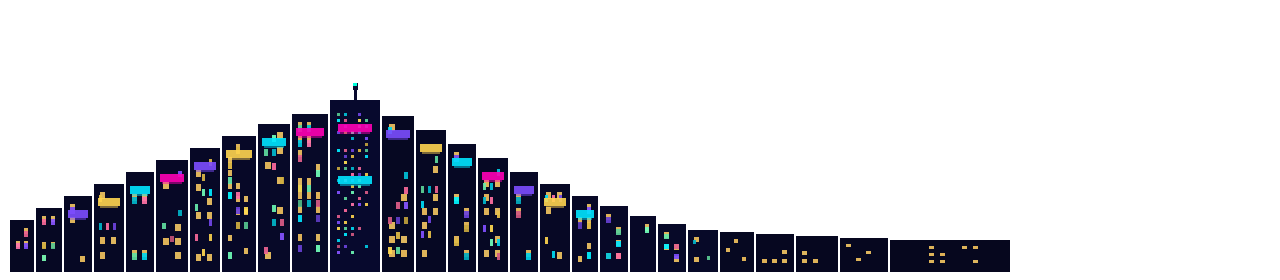
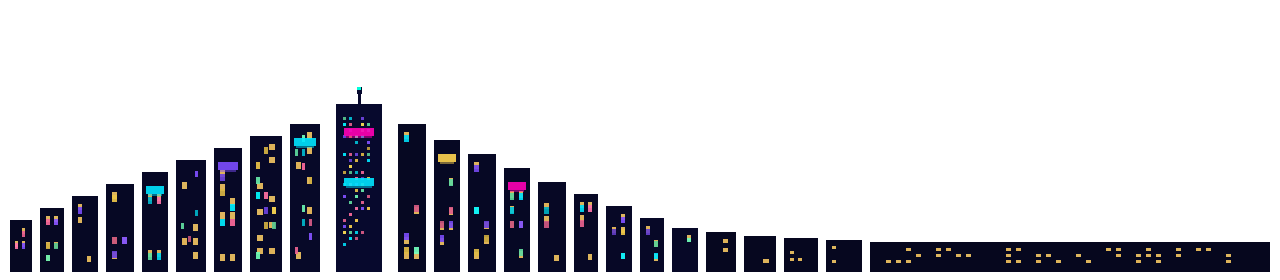
Deploy Stack Rush mobile PWA

Changed region(s): [[0.0, 0.3143, 1.0, 0.9714]]

diff --git a/index.html b/index.html
@@ -619,7 +619,7 @@
       <div class="section-divider"></div>
       <p class="theme-label">City skyline <span id="cityUnlockHint"></span></p>
       <div class="theme-grid" id="cityGrid"></div>
-      <p class="theme-label" id="buildVer" style="margin-top:10px;opacity:.35;font-size:.62rem;text-align:center;">Build 407e40c5</p>
+      <p class="theme-label" id="buildVer" style="margin-top:10px;opacity:.35;font-size:.62rem;text-align:center;">Build bc5035d8</p>
       <button class="secondary" id="optionsBackBtn" style="width:100%;margin-top:10px;">Back</button>
     </div>
   </div>
@@ -710,7 +710,7 @@ const MUSIC_TRACKS = [
 
 const SFX_FILES = ['drop', 'land', 'perfect', 'great', 'good', 'slice', 'gameover'];
 const ASSETS_BASE = 'assets/';
-const ASSETS_VER = '407e40c5';
+const ASSETS_VER = 'bc5035d8';
 const BOARD_KEY = 'stackrush_weekly_board';
 const PLAYER_NAME_KEY = 'stackrush_player_name';
 const BOARD_MAX = 15;
@@ -4090,7 +4090,7 @@ if ('serviceWorker' in navigator) {
     location.reload();
   });
   window.addEventListener('load', () => {
-    navigator.serviceWorker.register('./sw.js?v=407e40c5').then((reg) => {
+    navigator.serviceWorker.register('./sw.js?v=bc5035d8').then((reg) => {
       reg.update();
       if (reg.waiting) reg.waiting.postMessage({ type: 'SKIP_WAITING' });
       reg.addEventListener('updatefound', () => {

diff --git a/sw.js b/sw.js
@@ -1,5 +1,5 @@
 /* Stack Rush service worker — generated by build_mobile.py */
-const CACHE = 'stackrush-407e40c5';
+const CACHE = 'stackrush-bc5035d8';
 const ASSETS = [
   "./manifest.webmanifest",
   "./icon.svg",
